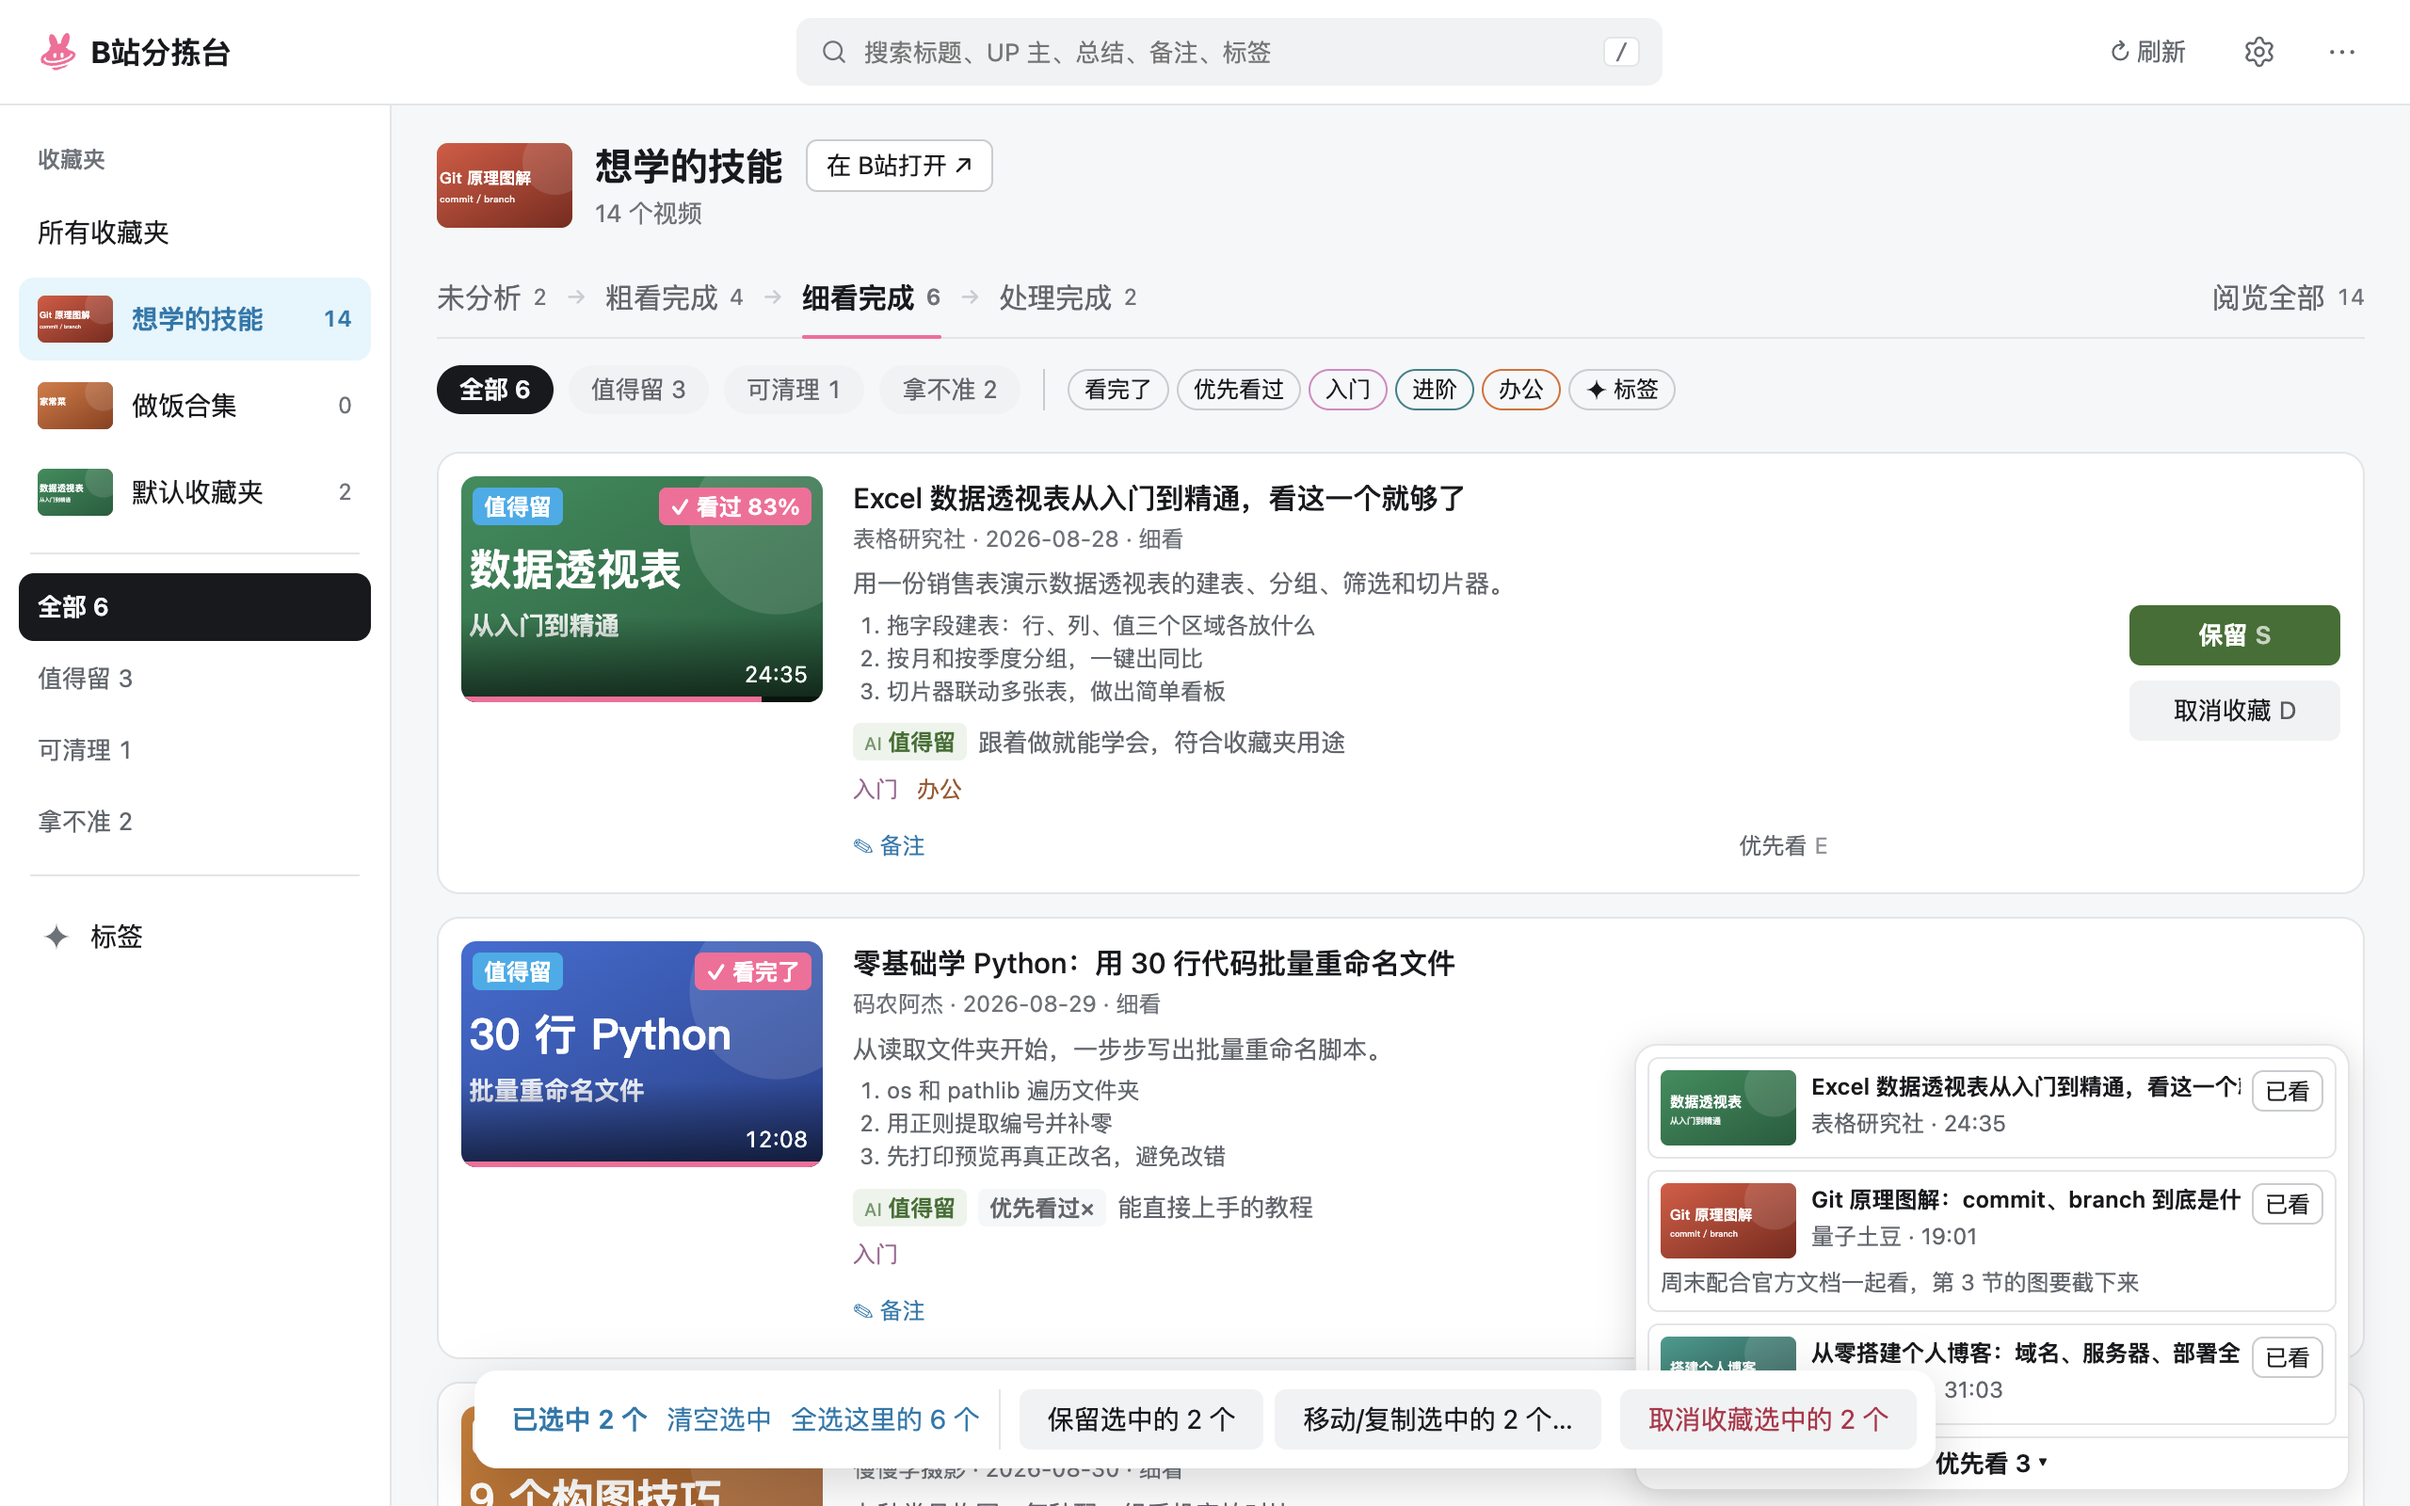
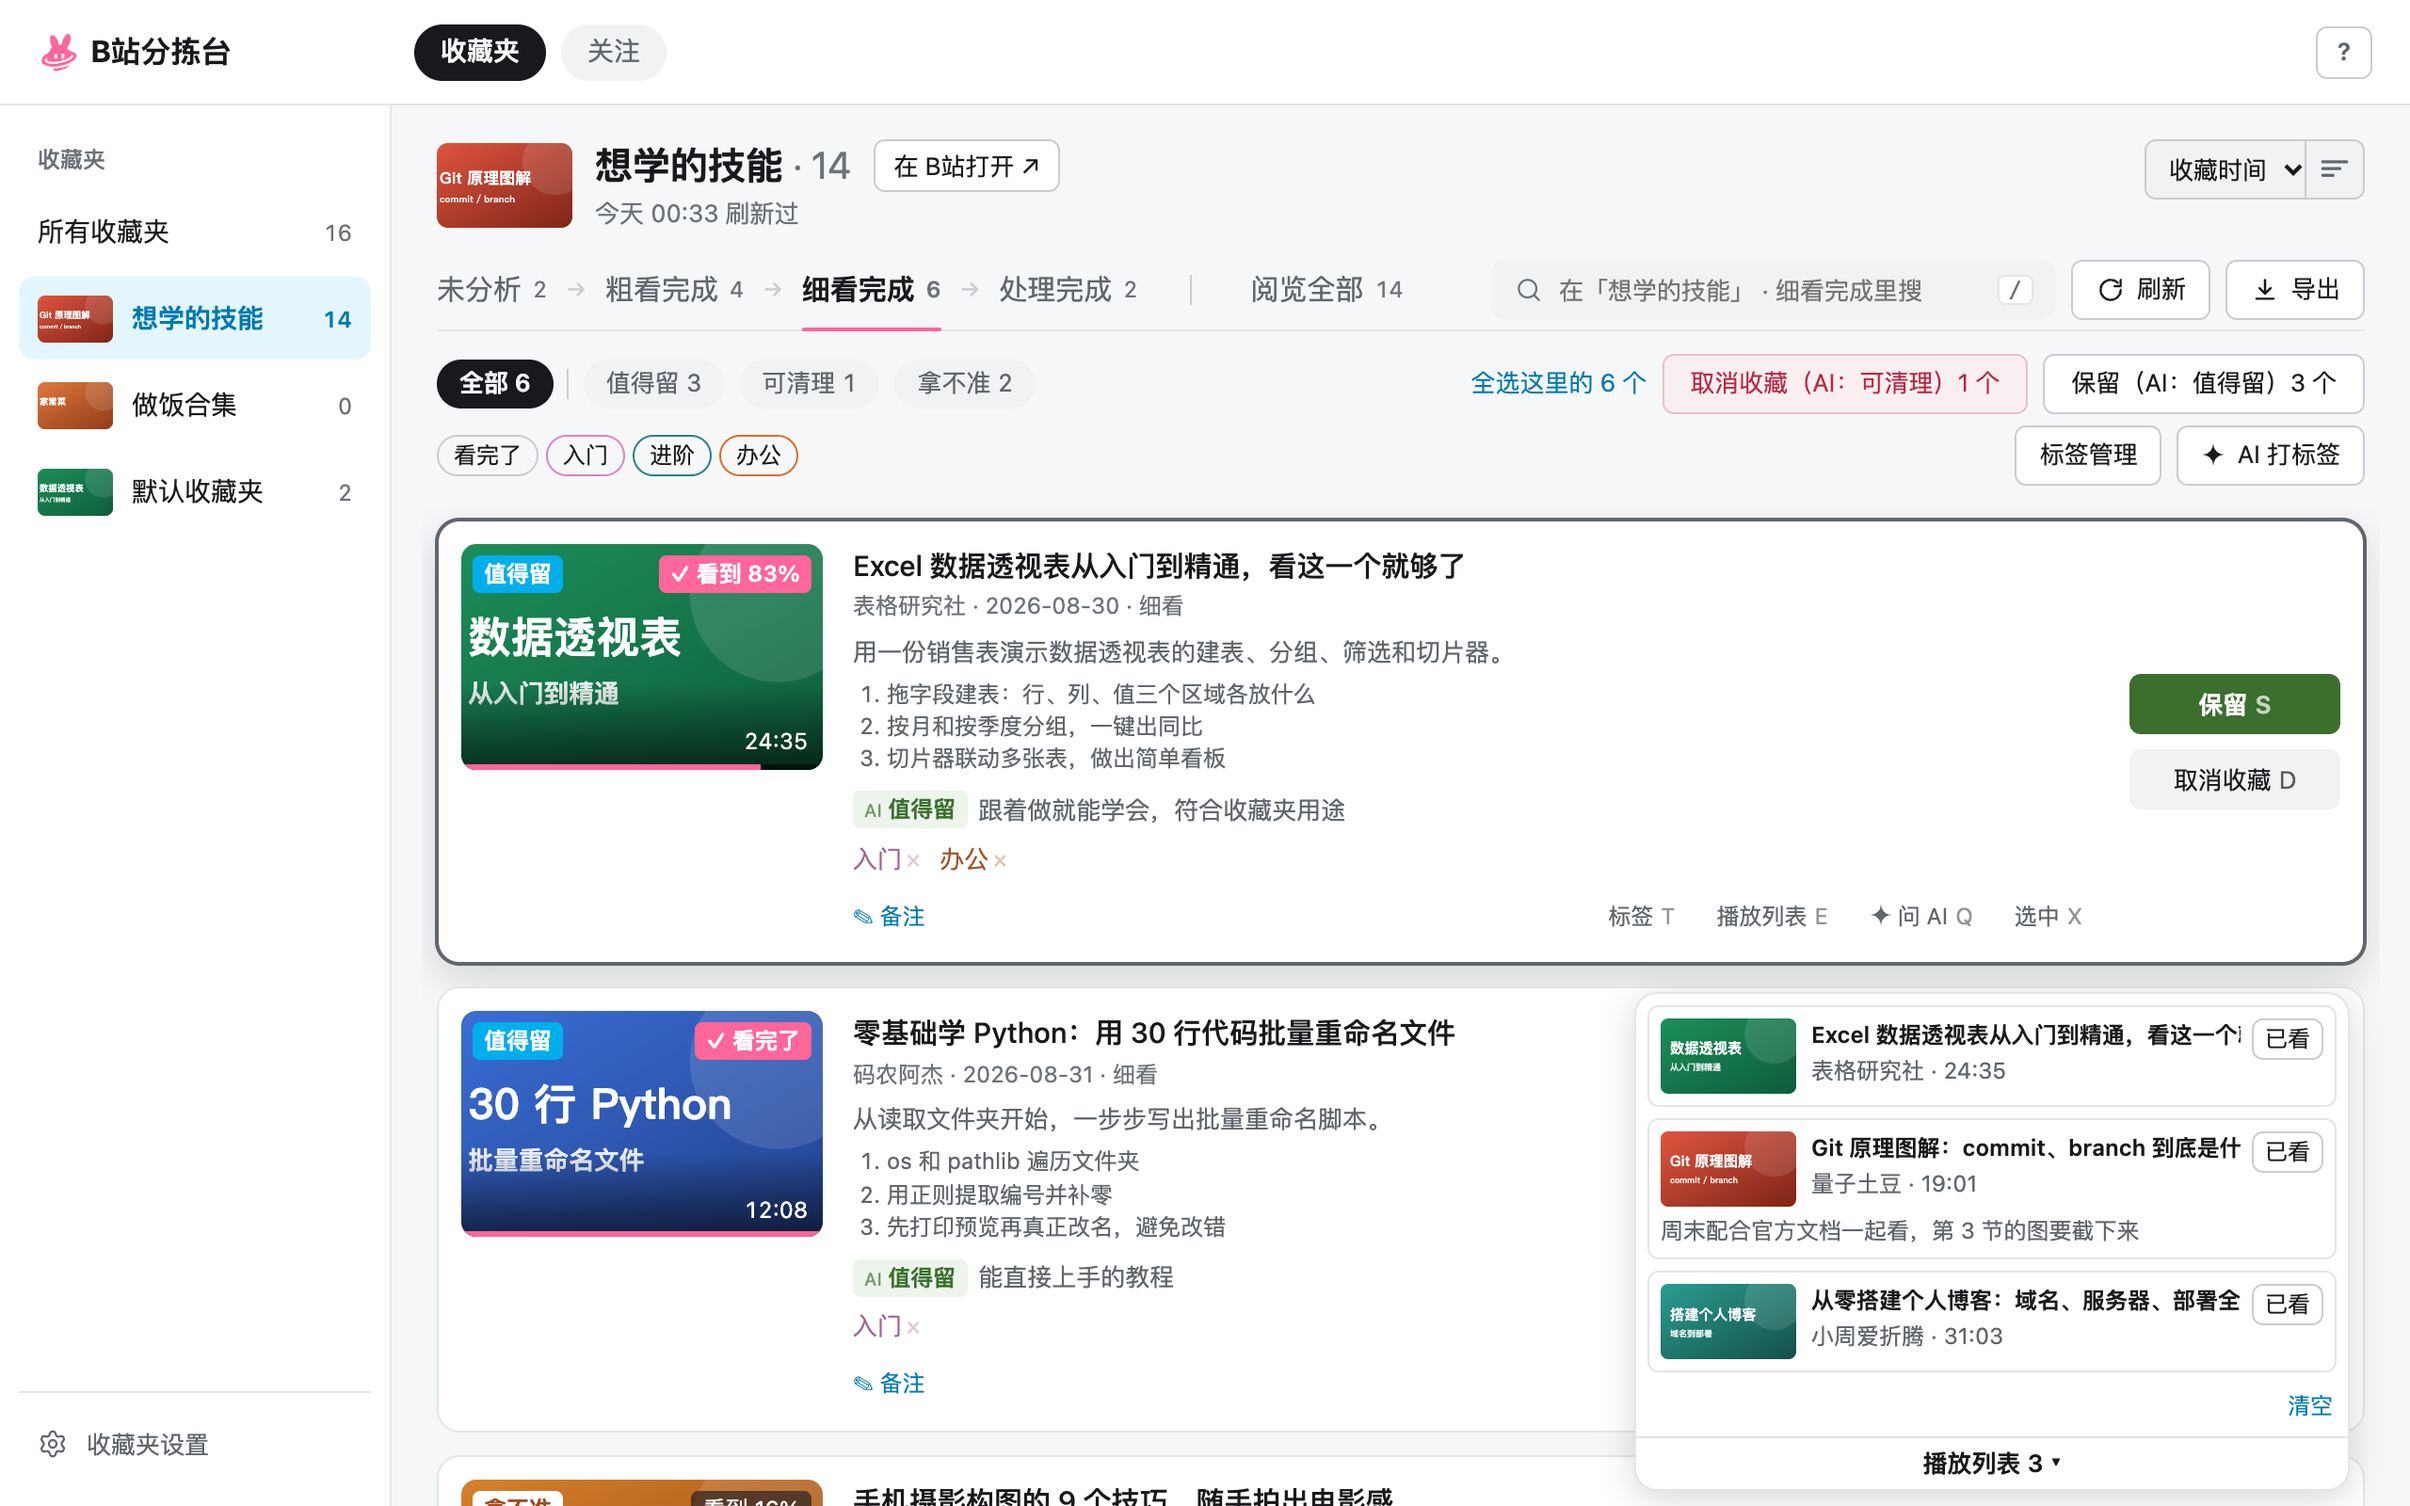
Retake triage screenshots with 播放列表

diff --git a/README.md b/README.md
@@ -47,7 +47,7 @@
 ### 理：收藏夹分拣台（仅 B站）
 
 <p align="center">
-  <img src="docs/images/triage-light.png" alt="收藏夹分拣台：左边是收藏夹列表和 AI 判断筛选，中间是「想学的技能」收藏夹的细看完成步骤，卡片上有一句话总结、要点、AI 判断和标签，封面上有观看进度条和「✓ 看过 83%」「✓ 看完了」标记；底部是已选中 2 个的选中条，右下角展开了播放列表" width="900">
+  <img src="docs/images/triage-light.png" alt="收藏夹分拣台：左边是收藏夹列表和 AI 判断筛选，中间是「想学的技能」收藏夹的细看完成步骤，卡片上有一句话总结、要点、AI 判断和标签，封面上有观看进度条和「✓ 看过 83%」「✓ 看完了」标记；右下角展开了播放列表" width="900">
 </p>
 
 点插件图标 → **打开分拣台**。第一次打开先勾选要分拣的收藏夹，B站「稍后再看」也可以勾。MoonDigest 只读取你勾选的收藏夹，没勾的不读内容。
@@ -113,7 +113,7 @@
 </p>
 
 <p align="center">
-  <img src="docs/images/triage-dark.png" alt="分拣台深色主题：同一个细看完成步骤、选中条、观看进度标记和展开的播放列表" width="900">
+  <img src="docs/images/triage-dark.png" alt="分拣台深色主题：同一个细看完成步骤、观看进度标记和展开的播放列表" width="900">
 </p>
 
 ### 观看进度（仅 B站，默认关）
